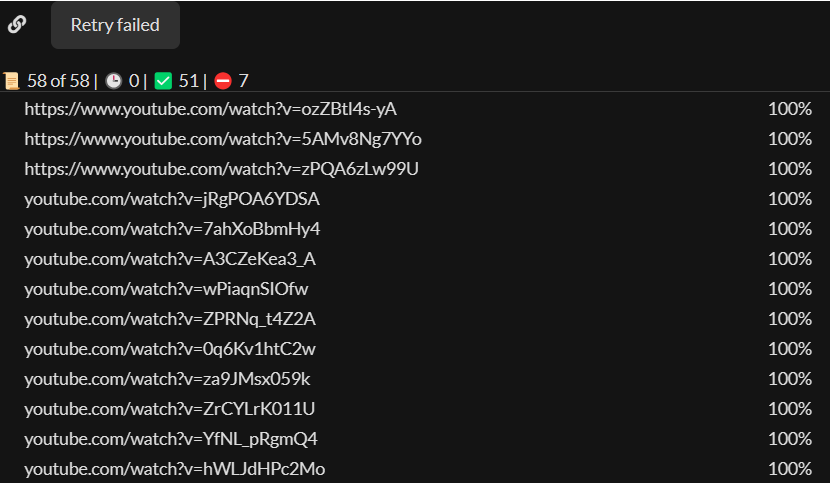
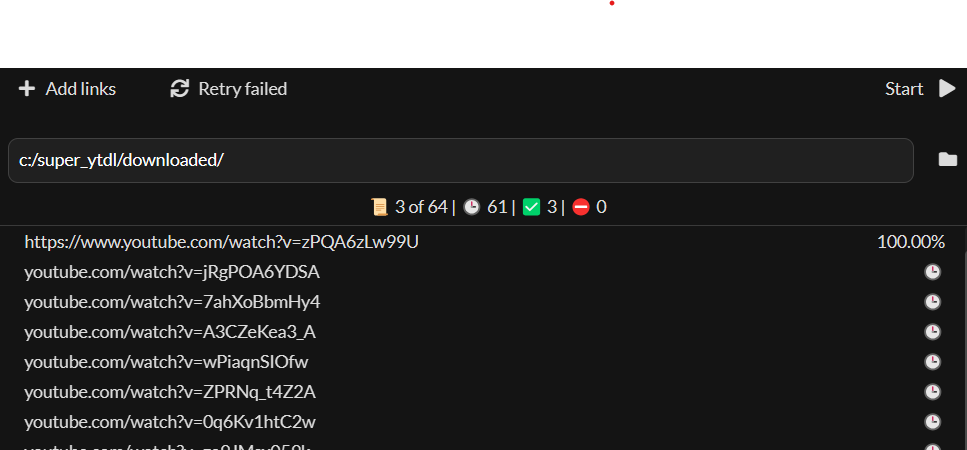
0.2
- Ignores aldready added URL's when adding new URL's
- Allows to change output folder
- Added manual Start button

Changed region(s): [[0.0, 0.3422, 0.6325, 1.0], [0.0, 0.0, 1.0, 0.3111], [0.9036, 0.1867, 1.0, 1.0]]

diff --git a/modules/queue_manager.js b/modules/queue_manager.js
@@ -6,7 +6,6 @@ module.exports = class Super_YTDL_Queue_Manager {
         this.list = []
 
         this.loadList()
-        this.start()
     }
     
 
@@ -20,19 +19,19 @@ module.exports = class Super_YTDL_Queue_Manager {
 
         for (var i in data.queued){
             var queuedItem = data.queued[i]
-            var item = this.addLink(queuedItem.url)
+            var item = this.addLink(queuedItem.url).added
         }
 
         for (var i in data.completed){
             var completedItem = data.completed[i]
-            var item = this.addLink(completedItem.url)
+            var item = this.addLink(completedItem.url).added
             item.status = 'completed'
             item.progress = 100
         }
 
         for (var i in data.failed){
             var failedItem = data.failed[i]
-            var item = this.addLink(failedItem.url)
+            var item = this.addLink(failedItem.url).added
             item.progress = failedItem.progress
             item.status = 'failed'
             item.errorMsg = failedItem.errorMsg
@@ -46,10 +45,10 @@ module.exports = class Super_YTDL_Queue_Manager {
 
         for (var i in this.list){
             var item = this.list[i]
-            var info = {url: item.originalURL, status: item.status, errorMsg: item.errorMsg}
-            if (item.status === 'queued') data.queued[item.originalURL] = info
-            else if (item.status === 'completed') data.completed[item.originalURL] = info
-            else if (item.status === 'failed') data.failed[item.originalURL] = info
+            var info = {url: item.id, status: item.status, errorMsg: item.errorMsg}
+            if (item.status === 'queued') data.queued[item.id] = info
+            else if (item.status === 'completed') data.completed[item.id] = info
+            else if (item.status === 'failed') data.failed[item.id] = info
         }
 
         fs.writeJSONSync(super_ytdl.listPath, data)
@@ -58,17 +57,35 @@ module.exports = class Super_YTDL_Queue_Manager {
     /***************/
 
     addLinks(links, save = false){
-        for (var i in links) this.addLink(links[i])
+        var added = {}
+
+        for (var i in links){
+            var url = links[i]
+            var res = this.addLink(url)
+            if (res.added) added[url] = true
+        }
+
         if (save) this.saveList()
+
+        return added
     }
 
     addLink(url, save = false){
+        if (this.findByID(url)) return {existing: item}
+        
         var item = new Super_YTDL_Queue_Item({url: url})
         this.list.push(item)
 
         if (save) this.saveList()
 
-        return item
+        return {added: item}
+    }
+
+    findByID(id){
+        for (var i in this.list){
+            var item = this.list[i]
+            if (item.id === id) return item
+        }
     }
 
     start(){
@@ -104,7 +121,7 @@ module.exports = class Super_YTDL_Queue_Manager {
 
         for (var i in this.list){
             var item = this.list[i]
-            list[item.originalURL] = {status: item.status, progress: item.progress, errorMsg: item.errorMsg}
+            list[item.id] = {status: item.status, progress: item.progress, errorMsg: item.errorMsg}
         }
 
         return list
@@ -122,7 +139,7 @@ module.exports = class Super_YTDL_Queue_Manager {
 
 class Super_YTDL_Queue_Item {
     constructor(opt){
-        this.originalURL = opt.url
+        this.id = opt.url
         this.url = this.fixURL(opt.url)
 
         this.status = 'queued'

diff --git a/sk_project/views/index/frontend/sk_ui/sk_ui_queue_list/sk_ui_queue_list.js b/sk_project/views/index/frontend/sk_ui/sk_ui_queue_list/sk_ui_queue_list.js
@@ -5,6 +5,7 @@ class sk_ui_queue_list extends sk_ui_list {
         this.styling += ' fill'
 
         this.header.setup(_c => {
+            _c.padding = 8
             this.info = _c.add.fromNew(sk_ui_queue_list_info)
         })
 
@@ -12,11 +13,11 @@ class sk_ui_queue_list extends sk_ui_list {
     }
 
     addLinksToQueue(links){
-        for (var i in links){
-            var link = links[i]
-            this.addItem({label: link, url: link})
+        var res = sk.actions.addLinksToQueue({links: links})
+        
+        for (var id in res.added){
+            this.addItem({label: id, url: id})
         }
-        sk.actions.addLinksToQueue({links: links})
     }
 
     addItem(opt){
@@ -97,11 +98,13 @@ class sk_ui_queue_list extends sk_ui_list {
 }
 
 
-class sk_ui_queue_list_info extends sk_ui_list {
+class sk_ui_queue_list_info extends sk_ui_component {
     constructor(opt){
         super(opt)
 
-        //this.styling += ' '
+        this.styling += ' fullwidth'
+
+        this.add.fromNew(sk_ui_queue_list_info_outputPath)
 
         this.counterLabel = this.add.label(_c => {
         })
@@ -111,5 +114,40 @@ class sk_ui_queue_list_info extends sk_ui_list {
 
     setStats(total, iterated, queued, completed, failed){
         this.counterLabel.text = `📜 ${iterated} of ${total}  |  🕒 ${queued}  |  ✅ ${completed}  |  ⛔ ${failed}`
+    }
+}
+
+
+class sk_ui_queue_list_info_outputPath extends sk_ui_component {
+    constructor(opt){
+        super(opt)
+
+        this.styling += ' fullwidth'
+        this.vertical = false
+
+        this.pathLabel = this.add.input(_c => {
+            _c.styling += ' fullwidth'
+            _c.onChanged = res => {
+                this.setPath()
+            }
+        })
+
+        this.add.iconButton(_c => {
+            _c.icon = 'folder'
+        })
+
+        this.getPath()
+    }
+
+    async getPath(){
+        var res = await sk.actions.outputPath({action: 'get'})
+        this.pathLabel.value = res.path
+    }
+    
+    async setPath(){
+        var res = await sk.actions.outputPath({action: 'set', path: this.pathLabel.value})
+
+        this.pathLabel.color = 'green'
+        if (res.error) this.pathLabel.color = 'red'
     }
 }

diff --git a/sk_project/views/index/frontend/sk_ui/sk_ui_navbar/sk_ui_navbar.js b/sk_project/views/index/frontend/sk_ui/sk_ui_navbar/sk_ui_navbar.js
@@ -4,9 +4,9 @@ class sk_ui_navbar extends sk_ui_component {
 
         this.vertical = false
 
-        this.add.iconButton(_c => {
-            _c.icon = 'linkify'
-
+        this.add.button(_c => {
+            _c.icon = 'plus'
+            _c.text = 'Add links'
             _c.hint({text: 'Add links to queue'})
 
             _c.onClick = ()=>{
@@ -14,7 +14,8 @@ class sk_ui_navbar extends sk_ui_component {
             }
         })
 
-        this.add.simpleActionBtn(_c => {
+        this.add.button(_c => {
+            _c.icon = 'sync'
             _c.text = 'Retry failed'
             _c.hint({text: 'Retry failed links'})
 
@@ -24,17 +25,41 @@ class sk_ui_navbar extends sk_ui_component {
         })
 
         this.add.spacer()
+
+        this.add.button(_c => {
+            _c.icon = 'play'
+            _c.label.moveBefore(_c._icon)
+            _c.text = 'Start'
+            _c.hint({text: 'Start ripping'})
+
+            _c.onClick = ()=>{
+                sk.actions.startRipping()
+            }
+        })
     }
 
     showAddLinks(){
         sk.app.add.prompter(_c => {
+            _c.closers = ['close', 'escape']
             _c.header.text = 'Add links to queue'
             _c.message.remove()
-
+            _c.promptContent.styling += ' fullwidth'
+            _c.promptContent.height = 256
+            _c.actionBtn.disabled = true
+            var actionBtn = _c.actionBtn
             var urlInput = _c.promptContent.add.textarea(_c => {
+                _c.styling += ' fullwidth fullheight'
+                _c.style.overflowWrap = 'unset'
+                _c.style.textWrap = 'nowrap'
+                _c.onChanged = val => {
+                    var validLinks = this.parseLinks(val)
+                    actionBtn.text = 'Add ' + validLinks.length + ' links'
+                    actionBtn.disabled = validLinks.length === 0
+                }
             })
 
-
+            _c.actionBtn.primary = true
+            _c.actionBtn.text = 'Add'
             _c.actionBtn.onClick = ()=>{
                 var validLinks = this.parseLinks(urlInput.value)
                 sk.toast.success(`Added ${validLinks.length} links`)

diff --git a/sk_project/views/index/actions/outputPath.js b/sk_project/views/index/actions/outputPath.js
@@ -1,0 +1,12 @@
+module.exports = class SK_Action extends SK_RootAction {
+    async exec(opt, res, view, _v, srcOpt, validationRes){
+        if (opt.action === 'get'){
+            res.resolve({path: super_ytdl.outputPath})
+        } else {
+            super_ytdl.outputRootPath = opt.path,
+            super_ytdl.listPath = opt.path + '/list.json',
+            super_ytdl.outputPath = opt.path + '/downloaded/'
+            res.resolve({error: true})
+        }
+    }
+}

diff --git a/sk_project/views/index/actions/startRipping.js b/sk_project/views/index/actions/startRipping.js
@@ -1,6 +1,6 @@
 module.exports = class SK_Action extends SK_RootAction {
     async exec(opt, res, view, _v, srcOpt, validationRes){
-        var addRes = super_ytdl.queue_manager.addLinks(opt.links, true)
-        res.resolve({added: addRes})
+        super_ytdl.queue_manager.start()
+        res.resolve({})
     }
 }
